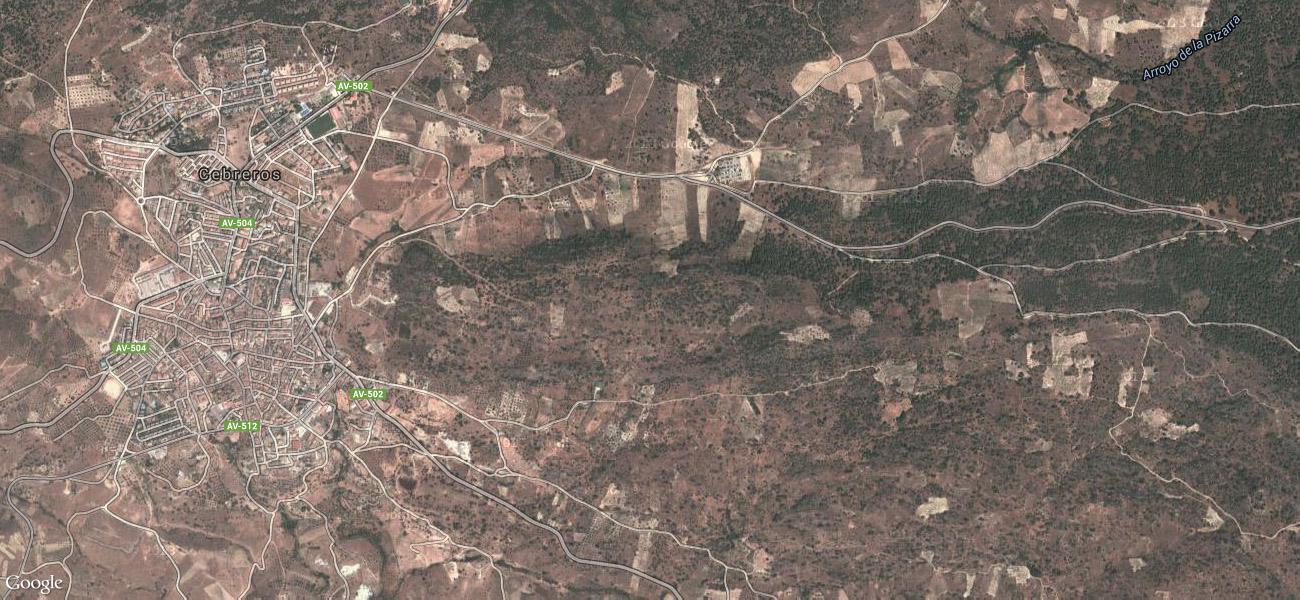
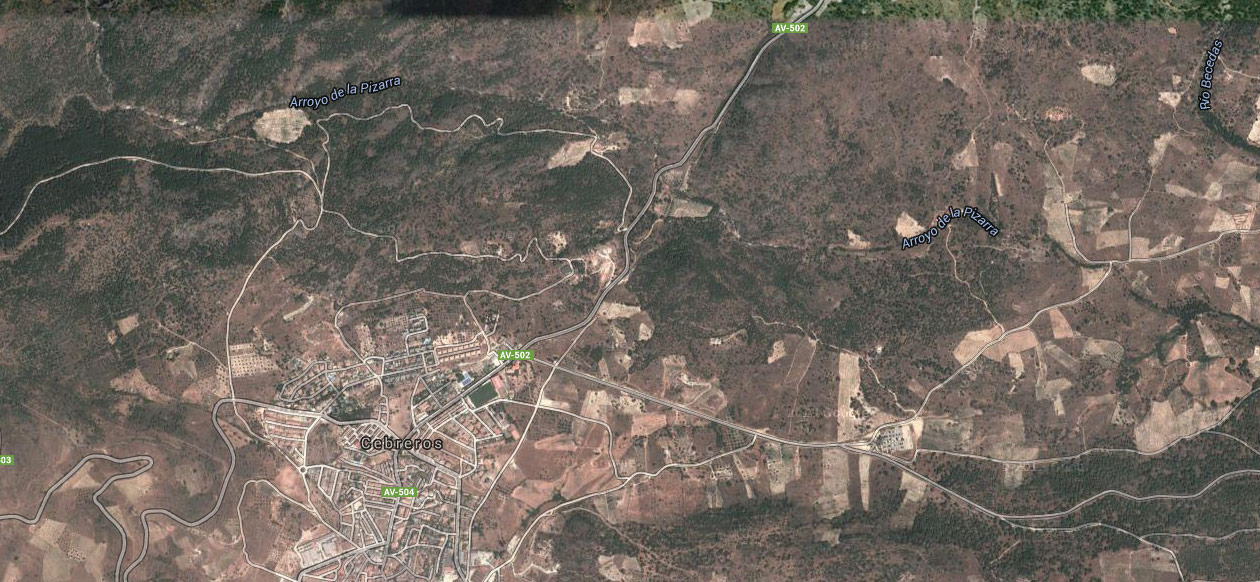
upload

diff --git a/js/funciones.js b/js/funciones.js
@@ -417,33 +417,33 @@ function draw_route(container,src_image, src_gpx)
 			{			
 				src_image_new='';			
 			
-				if(mousey<cuadrantes[1]) 
+				if(mousey<height/2) 
 				{
-					if(mousex<=cuadrantes[0]) {
+					if(mousex<=width/2) {
 						console.log("cuadrante 1");
-						//Para cada ruta 6 archivos de corrdenadas (uno por imagen ampliada)
-						src_image_new='./resources/images/mapas/mapa_01_1.jpg'; 
-						coord_image=[["top-left", "40.4667", "-4.4745"],["bottom-left", "40.4472", "-4.4745"], ["top-right","40.4667", "-4.4189"]];
+						//Para cada ruta una configuracion de coordenadas (una por imagen ampliada)
+						src_image_new='./resources/images/mapas/mapa_01_1.jpg'; 					
+						coord_image=[["top-left", "40.4753", "-4.4815"],["bottom-left", "40.4564", "-4.4815"], ["top-right","40.4753", "-4.4275"]];
 					}
-					else if(mousex<=cuadrantes[0]*2) {
+					else if(mousex<=width) {
 						console.log("cuadrante 2");
-						
-					} else if(mousex<=cuadrantes[0]*3) {
-						console.log("cuadrante 3");
 						src_image_new='./resources/images/mapas/mapa_01_2.jpg'; 
-						coord_image=[["top-left", "40.4661", "-4.4194"],["bottom-left", "40.4466", "-4.4194"], ["top-right","40.4661", "-4.3637"]];
-					}
+						coord_image=[["top-left", "40.4754", "-4.4237"],["bottom-left", "40.4565", "-4.4237"], ["top-right","40.4754", "-4.3697"]];
+						
+					} 
 				}
-				else if(mousey<cuadrantes[1]*2) 
+				else if(mousey<height) 
 				{
-					if(mousex<=cuadrantes[0]) {
+					if(mousex<=width/2) {
+						console.log("cuadrante 3");
+						src_image_new='./resources/images/mapas/mapa_01_3.jpg'; 
+						coord_image=[["top-left", "40.4565", "-4.4811"],["bottom-left", "40.4377", "-4.4811"], ["top-right","40.4565", "-4.4272"]];
+					}
+					else if(mousex<=width) {
 						console.log("cuadrante 4");
-					}
-					else if(mousex<=cuadrantes[0]*2) {
-						console.log("cuadrante 5");
-					} else if(mousex<=cuadrantes[0]*3) {
-						console.log("cuadrante 6");
-					}
+						src_image_new='./resources/images/mapas/mapa_01_4.jpg'; 
+						coord_image=[["top-left", "40.4565", "-4.4237"],["bottom-left", "40.4376", "-4.4237"], ["top-right","40.4565", "-4.3698"]];;
+					} 
 				}
 				
 				var altura=(coord_image[0][1]-coord_image[1][1]);
@@ -579,7 +579,7 @@ function draw_route(container,src_image, src_gpx)
 				var trabajo = canvas.getContext("2d");
 				trabajo.drawImage(img, 0, 0, width, height);
 				
-				trabajo.lineWidth = 3;
+				trabajo.lineWidth = 2;
 				trabajo.fillStyle = "blue";		
 				trabajo.strokeStyle = "orange";		
 				trabajo.font = '12px "Tahoma"';		
